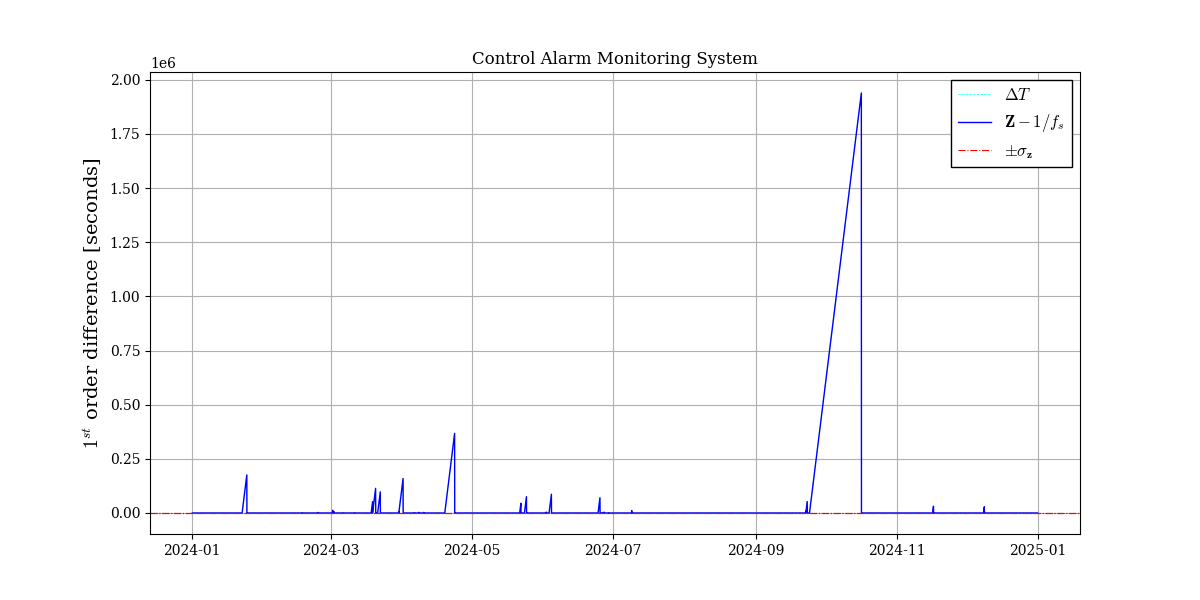
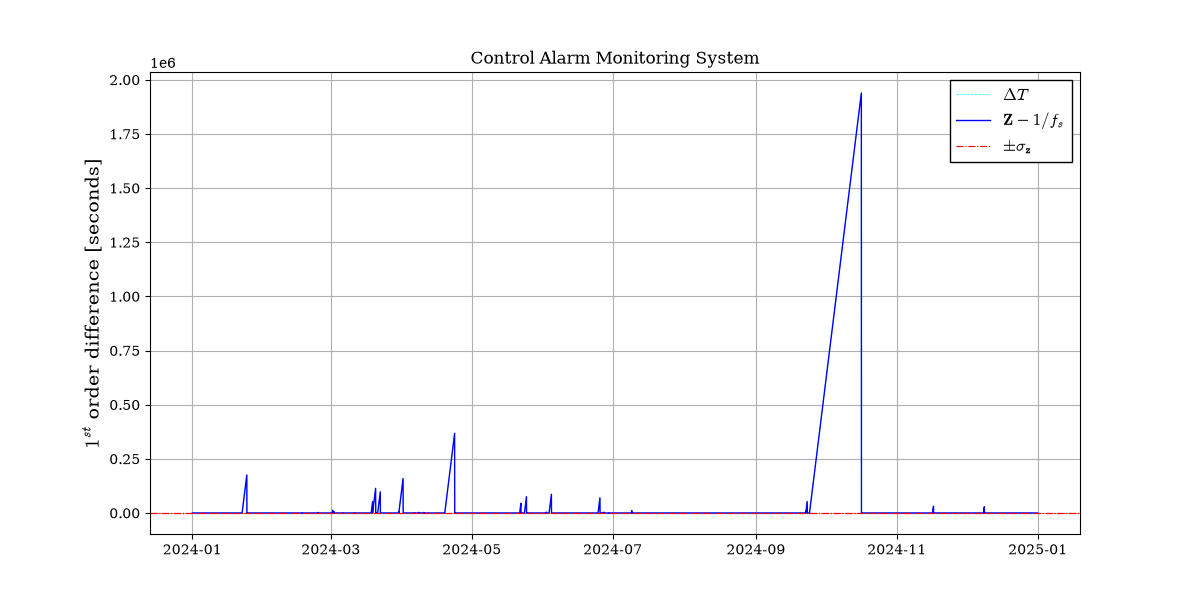
Fix pipeline run order broken by the DuckDB changes
- make_10min.py runs main() again, so kensas_10min.csv is rebuilt (output
  byte-identical to before). The DuckDB build is now opt-in: --duckdb
- Absolute `from cfg import` so `python src/<script>.py` works as the
  README says (relative imports failed outside a package)
- long_to_wide saves the pivoted wide_df (it selected from the table it
  was creating)
- create_database reads the flat data/raw layout from the README, and
  falls back to timeseriesdata/ and Jan25/ subfolders if present
- Excel extension is loaded only when building the database
- time_sync.py: plot the -sigma line, Python <3.12 compatible f-strings
- Pin duckdb<2: 2.0 removed .pl()

diff --git a/src/make_10min.py b/src/make_10min.py
@@ -2,6 +2,9 @@
 
 Run from the repo root:   python src/make_10min.py
 Needs: pandas, openpyxl (both come with Anaconda). Takes a few minutes and about 1 GB of memory.
+Optional:                 python src/make_10min.py --duckdb
+  also builds the DuckDB database data/raw/sintef_ocean.db (tables metrics_registration, metrics_raw,
+  noon_reports, jan25, metrics_wide) used by cfg.get_* and the data_cleaning scripts.
 
 Input (in data/raw):
   1.csv ... 12.csv          Jan to Dec 2024. No header. Columns: ISO timestamp, signal id, value
@@ -15,13 +18,12 @@ Output:
 """
 import glob
 import os
+import sys
 import pandas as pd
 import duckdb as db
 import polars as pl
-from .cfg import DROP, STD_COLS, COUNT_COLS, SHORT, HERE, DATASET, PROCESSED, DB_PATH, load_extensions
+from cfg import DROP, STD_COLS, COUNT_COLS, SHORT, HERE, DATASET, PROCESSED, DB_PATH, load_extensions
 
-
-load_extensions()  # load DuckDB extensions for reading Excel, Parquet, etc.
 
 def csv_files(path2dir):
     return [os.path.join(dirname, f) for dirname, _,files in os.walk(path2dir) for f in files if f.endswith('.csv')]
@@ -45,9 +47,20 @@ def read_raw(path):
     return pd.read_csv(path, header=None, names=["ts", "q", "v"], dtype={"ts": str, "q": str, "v": "float64"})
 
 
+def raw_layout(path2data_dir):
+    """monthly csvs and Jan25 csvs: timeseriesdata/ and Jan25/ subfolders if present, else the flat data/raw layout."""
+    sub = os.path.join(path2data_dir, "timeseriesdata")
+    if os.path.isdir(sub):
+        return csv_files(sub), csv_files(os.path.join(path2data_dir, "Jan25"))
+    monthly = sorted(glob.glob(os.path.join(path2data_dir, "[0-9]*.csv")))
+    return monthly, sorted(glob.glob(os.path.join(path2data_dir, "Jan25*.csv")))
+
+
 def create_database(path2metric_registration, path2data_dir, db_path):
-    # Create a DuckDB database connection
-    conn = db.connect(database=db_path)  
+    load_extensions()  # read_xlsx needs the excel extension
+    if os.path.exists(db_path):
+        os.remove(db_path)  # rebuild from scratch, CREATE TABLE fails on an existing database
+    conn = db.connect(database=db_path)
     col_names = {k.split(" | ")[0]: v for k, v in SHORT.items()}  
     conn.execute("SET TimeZone = 'UTC'")
     conn.execute(f"""CREATE TABLE metrics_registration AS SELECT * FROM read_xlsx('{path2metric_registration}')""")
@@ -60,7 +73,7 @@ def create_database(path2metric_registration, path2data_dir, db_path):
                         WHERE quantity_name = ?""",[(label, key) for key, label in col_names.items()],)
     
     # 
-    data_csvs = csv_files(f"{path2data_dir}/timeseriesdata/")
+    data_csvs, jan25 = raw_layout(path2data_dir)
     conn.execute("""CREATE TABLE metrics_raw AS 
                     SELECT 
                         CAST(csv.column0 AS TIMESTAMPTZ) AS timestamp,
@@ -78,7 +91,6 @@ def create_database(path2metric_registration, path2data_dir, db_path):
     SELECT * FROM read_csv($1::VARCHAR[]) csv""", [noon_csvs])
 
     #Jan 25 
-    jan25 = csv_files(f"{path2data_dir}/Jan25/")
     conn.execute("""CREATE TABLE jan25 AS 
             SELECT * FROM read_csv($1::VARCHAR[]) csv""", [jan25])
     print("Database Tables:", [row[0] for row in conn.execute("SHOW TABLES;").fetchall()])
@@ -91,7 +103,7 @@ def long_to_wide(db_path):
     #there are some duplicate timestamps, so we need to aggregate them first
     wide_df = metrics_long.pivot(index="timestamp", on="short_name", values="value", aggregate_function="mean",).sort("timestamp") 
     print("Wide DataFrame shape:", wide_df.shape)
-    conn.execute("CREATE TABLE metrics_wide AS SELECT * FROM metrics_wide")
+    conn.execute("CREATE OR REPLACE TABLE metrics_wide AS SELECT * FROM wide_df")
     conn.close()
     return wide_df
 
@@ -133,6 +145,7 @@ def main():
 
 
 if __name__ == "__main__":
-    #main()
-    #create_database(os.path.join(DATASET, "Metrics registration.xlsx"), DATASET, os.path.join(DATASET, "sintef_ocean.db"))
-    wide_df = long_to_wide(os.path.join(DATASET, "sintef_ocean.db"))
+    main()
+    if "--duckdb" in sys.argv:
+        create_database(os.path.join(DATASET, "Metrics registration.xlsx"), DATASET, DB_PATH)
+        long_to_wide(DB_PATH)

diff --git a/src/data_cleaning/time_sync.py b/src/data_cleaning/time_sync.py
@@ -12,13 +12,17 @@ import os, glob, sys
 import numpy as np
 import matplotlib.pyplot as plt
 
-from ..cfg import DB_PATH, get_metrics_reg, get_metrics_wide, PLOTS_DIR, PROCESSED
+sys.path.insert(0, os.path.join(os.path.dirname(os.path.abspath(__file__)), ".."))
+from cfg import DB_PATH, get_metrics_reg, get_metrics_wide, PLOTS_DIR, PROCESSED
 
 plt.rcParams.update({"mathtext.fontset": "cm", "font.family": "serif"})
 
 #------------------------------------------------------------------------------------------------------------------------------------------------------------------------------------#
 #JUMP DETECTION IN TIME STAMPS FOR DIFFERENT SENSORS
 #------------------------------------------------------------------------------------------------------------------------------------------------------------------------------------#
+def slug(name):
+    return name.replace(" ", "_").lower()
+
 def detect_jumps(DB_PATH, create_table = False, save_csv = False) -> dict:
     '''
     detect jumps in the time stamps for different sensors
@@ -34,17 +38,17 @@ def detect_jumps(DB_PATH, create_table = False, save_csv = False) -> dict:
         df = metrics_wide.select(pl.col(["timestamp"] + row["short_name"]))
         if create_table:
             conn = db.connect(database=DB_PATH)
-            conn.execute(f"CREATE TABLE metrics_{row['by'].replace(" ","_").lower()} AS SELECT * FROM df")
+            conn.execute(f"CREATE OR REPLACE TABLE metrics_{slug(row['by'])} AS SELECT * FROM df")
             conn.close()
         df = df.drop_nulls().sort("timestamp").with_columns(pl.col("timestamp").diff().dt.total_seconds().alias("time_diff")) 
         df = df.select(pl.col("timestamp", "time_diff"))
         df = df.with_columns((pl.col("time_diff") - pl.col("time_diff").mode()).alias("y_s")) \
                 .with_columns((pl.col("y_s").std().alias("sigma_s"))) \
                 .with_columns((pl.col("y_s").abs() > pl.col("sigma_s")).alias("jump"))
-        print(f"{row['by']} :: No. of rows : {len(df)}, NP STD : {np.std(df["y_s"].drop_nulls().to_numpy())}, Polar STD: {df["sigma_s"].mode().max()}")
+        print(f"{row['by']} :: No. of rows : {len(df)}, NP STD : {np.std(df['y_s'].drop_nulls().to_numpy())}, Polar STD: {df['sigma_s'].mode().max()}")
         ## mode is assumed to be the real 1/frequency of observation, some of the sensors have high y_s
         if save_csv:
-            df.write_csv(os.path.join(PROCESSED, "sensor_timestamp", f"{row['by'].replace(" ","_").lower()}.csv"))
+            df.write_csv(os.path.join(PROCESSED, "sensor_timestamp", f"{slug(row['by'])}.csv"))
         timestamp_dict[row["by"]] = df
     return timestamp_dict
 
@@ -57,11 +61,11 @@ def plot_jumps(timestamp_dict):
         ax.plot(v["timestamp"].to_numpy(),v["time_diff"].to_numpy(), color="cyan", lw=0.5, ls= "--", label=r"$\Delta T$")
         ax.plot(v["timestamp"].to_numpy(),v["y_s"].to_numpy(), color="blue", lw=1, label=r"$\mathbf{Z} - 1/f_s$")
         ax.axhline(v["sigma_s"].mode().max(), color="red", ls="-.", lw=0.8, label=r"$\pm\sigma_{\mathbf{z}}$")
-        ax.axhline(v["sigma_s"].mode().max(), color="red", ls="-.", lw=0.8)
+        ax.axhline(-v["sigma_s"].mode().max(), color="red", ls="-.", lw=0.8)
         ax.legend(loc="upper right", fontsize=12, edgecolor="black", fancybox=False, framealpha=1)
         ax.set_ylabel(r"$1^{st}$ order difference [seconds]", family="serif", fontsize=14)
         ax.set_title(k)
-        plt.savefig(os.path.join(PLOTS_DIR,  "time_vector", f"{k.replace(" ","_").lower()}.png"))
+        plt.savefig(os.path.join(PLOTS_DIR,  "time_vector", f"{slug(k)}.png"))
         #plt.show()
 
 #------------------------------------------------------------------------------------------------------------------------------------------------------------------------------------#

diff --git a/src/clean_weather_data.py b/src/clean_weather_data.py
@@ -4,12 +4,9 @@ Clear weather data provided in the noon reports
 CSV Files were saved in database, this script reads table from database, cleans it and save it back to database as a new table.
 
 '''
-import os
 import duckdb as db
 import polars as pl
-from .cfg import DROP, STD_COLS, COUNT_COLS, SHORT, HERE, DATASET, PROCESSED, DB_PATH, load_extensions
-
-load_extensions()  # load DuckDB extensions for reading Excel, Parquet, etc.
+from cfg import DB_PATH
 
 column_mapping = {
     "Date": "date",
